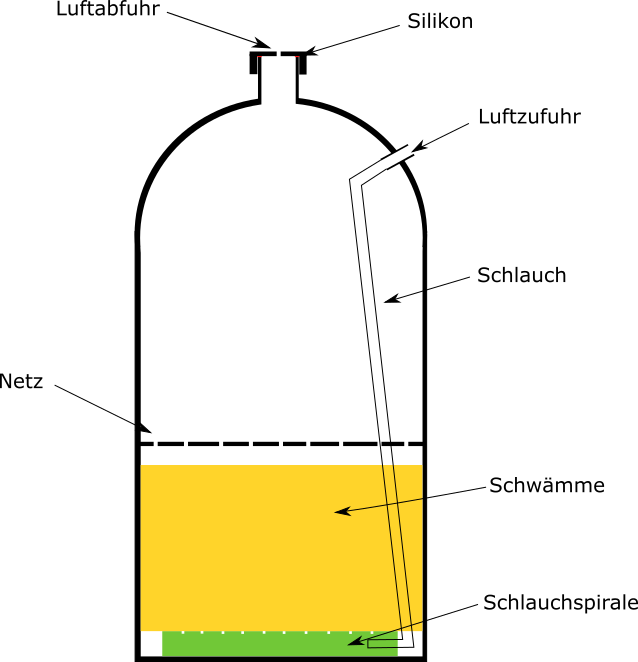
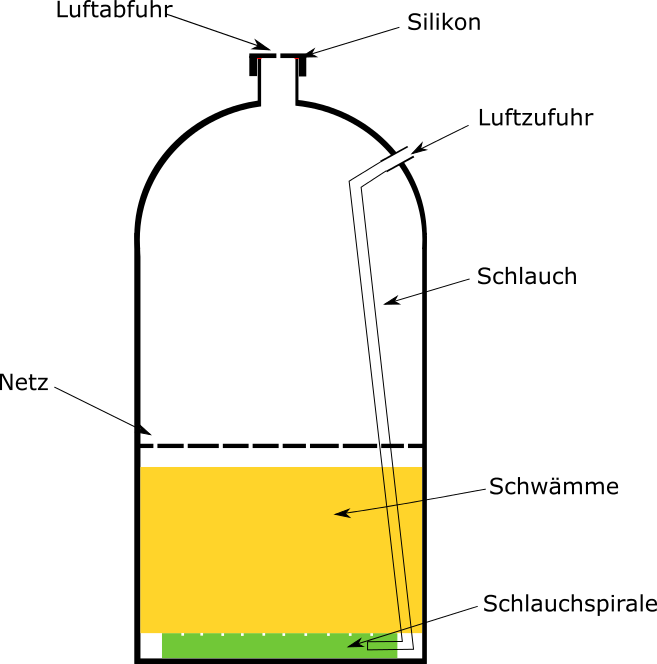
Neue Bilder Ausblick angefangen neue Quellen

diff --git a/Einleitung+Theorie.tex b/Einleitung+Theorie.tex
@@ -40,9 +40,9 @@ Eine genaue Charakterisierung eines granularen Mediums ist mit der Methode von C
 Um das Messprinzip von Castellanos zu nutzen und granulare Medien zu fluidisieren, soll folgender Aufbau verwendet werden.
 
 
-\begin{figure}[h]
+\begin{figure}[h!]
 		\begin{center}
-		\includegraphics[scale=0.65]{Prinzip_Wirbelbett.png}
+		\includegraphics[scale=0.5]{Prinzip_Wirbelbett.png}
 		\caption{Messaufbau zur Charakterisierung von granularen Medien. Luft wird vom Massenstromregler entweder über den Luftbefeuchter oder direkt durch das Granulat gedrückt. Dabei wird mit dem Drucksensor der über dem Granulat aubfallende Druck gemessen}
 	\end{center}
 \end{figure}	
@@ -50,7 +50,7 @@ Um das Messprinzip von Castellanos zu nutzen und granulare Medien zu fluidisiere
 
 Das im Probenrohr befindliche granulare Medium wird von unten mittels eines, durch einen Massenstromregler regelbaren, Luftstrom durchströmt. Das Ziel ist hierbei den Zustand der sogenannten \glqq Fluidisation\grqq \ zu erreichen. Um diesen Zustand messtechnisch zu bestimmen, ist es nötig den über dem granularen Medium abfallenden Druck sehr genau zu messen. Das Ziel besteht darin, Graphen wie den unten stehenden zu erhalten:
 
-\begin{figure}[h]
+\begin{figure}[h!]
 	\begin{center}
 		\includegraphics[scale=0.6]{Castellanos_Diagramm.jpg}
 		\caption{Gasstrom in Abhängigkeit vom über dem Granulat abfallenden Druck. Der Breaking Point ist charakteristisch für das jeweilige Granulat und markiert den Übergang in den flüssigen Zustand \cite{Castellanos2000}}
